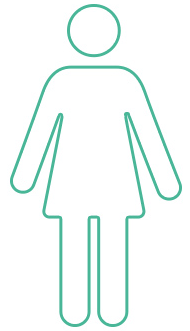
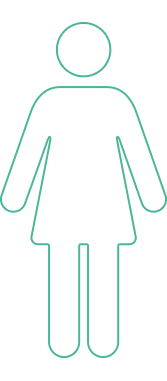
Amélioration front

Changed region(s): [[0.0, 0.0302, 1.0, 0.997], [0.4192, 0.0, 0.5689, 0.0302], [0.0299, 0.4532, 0.0599, 0.4834]]

diff --git a/front/index.html b/front/index.html
@@ -32,14 +32,14 @@
 <div class="container">
 
     <div class="row row-criteria" style="min-height: 50px ">
-        <div class="col-xs-offset-1 col-xs-5 col-md-offset-2 col-md-2 criteria-ville criteria" style="display: none">
+        <div class="col-xs-4 col-md-offset-3 col-md-2 criteria-ville criteria" style="display: none">
             <div class="illustration">
                 <object id="littleTahitiSVG" data="images/tahiti.svg" type="image/svg+xml"></object>
                 <br>
             </div>
             Si j'habite à <span id="headerVille"> </span>
         </div>
-        <div class="col-xs-5 col-md-2 criteria-sexe criteria" style="display: none">
+        <div class="col-xs-4 col-md-2 criteria-sexe criteria" style="display: none">
             <div class="illustration">
                 <object id="sexeImage" type="image/svg+xml"></object>
             </div>
@@ -49,7 +49,7 @@
 
     <div id="step0" class="row">
         <div class="title">
-            SI VOUS ETIEZ UN AUTRE HABITANT DE LA POLYNESIE
+            SI VOUS ÉTIEZ UN AUTRE HABITANT DE LA POLYNÉSIE...
         </div>
         <br/><br/>
         <div class="col-md-12" style="text-align: center">
@@ -63,21 +63,27 @@
     <object style="max-height: 500px" type="image/svg+xml" id="tahitiSVG" data="images/tahiti.svg">
     </object>
     <br/>
-    <span class="font-bold" style="font-size: 45px;color: #49B698;font-weight: bolder">OU HABITERIEZ VOUS ?</span>
+    <span class="font-bold" style="font-size: 45px;color: #49B698;font-weight: bolder">OÙ HABITERIEZ VOUS ?</span>
 </div>
 
 <div id="step2" style="display: none;">
-    <img id="imgHomme" src="images/Homme.png"/>
-    <img id="imgFemme" src="images/Femme.png"/><br>
-    <span class="font-bold" style="font-size: 45px;color: #49B698;font-weight: bolder">QUEL SERAIT VOTRE SEXE ?</span>
+    <div class="choice">
+        <div class="homme">
+        </div>
+        <div class="femme">
+        </div>
+    </div>
+    <div class="clear">
+        <span class="font-bold" style="font-size: 45px;color: #49B698;font-weight: bolder">QUEL SERAIT VOTRE SEXE ?</span>
+    </div>
 </div>
 
 <div id="step3" style="display: none">
     <span id="bigAge" class="age font-bold">25 ans</span><br>
     <input id="age" data-slider-id="ex1Slider" type="text" data-slider-min="0" data-slider-max="99"
            data-slider-step="1" data-slider-value="25" data-slider-tooltip="hide"><br>
-    <span class="font-bold" style="font-size: 45px;color: #49B698;font-weight: bolder">QUEL SERAIT VOTRE AGE ?</span><br>
-    <button type="button" id="btnStep3" class="btn btn-primary">VOIR LE PROFIL ></button>
+    <span class="font-bold" style="font-size: 45px;color: #49B698;font-weight: bolder">QUEL SERAIT VOTRE ÂGE ?</span><br>
+    <button type="button" id="btnStep3" class="btn btn-primary">VOIR LE PROFIL</button>
 </div>
 
 
@@ -95,7 +101,6 @@
     var ville;
     var sexe;
     var age = 25;
-    var profession;
 
 
     var villesTahiti = [
@@ -151,7 +156,7 @@
             if (pathElm) {
                 pathElm.setAttribute('fill', '#46B497');
             }
-        }, false );
+        }, false);
     }
 
     function goToStep3() {
@@ -213,14 +218,14 @@
         $('#age').slider();
 
         //STEP2
-        $("#imgHomme").click(function () {
+        $(".homme").click(function () {
             sexe = 'Homme';
             $("#headerSexe").text('un homme');
             $("#sexeImage").attr('data', 'images/homme.svg');
             goToStep3();
         });
 
-        $("#imgFemme").click(function () {
+        $(".femme").click(function () {
             sexe = 'Femme';
             $("#headerSexe").text('une femme');
             $("#sexeImage").attr('data', 'images/femme.svg');

diff --git a/front/dashboard.html b/front/dashboard.html
@@ -71,7 +71,7 @@ Le budget mensuel par UC pour le tabac"/>
             <div class="illustration">
                 <span data-bind="text: age" class="age font-bold"></span><br>
             </div>
-            que j&#39;ai <span data-bind="text: age"></span> ans
+            et que j&#39;ai <span data-bind="text: age"></span> ans
         </div>
     </div>
 
@@ -80,7 +80,7 @@ Le budget mensuel par UC pour le tabac"/>
             <div class="result-illustration">
                 <img data-bind="attr: {src: statusMaritalImage}">
             </div>
-            J&#39;ai <span data-bind="text: chanceDetreMarie" class="font-bold"> </span><span class="monnaie">%</span> de chance d&#39;être marié(e)
+            J&#39;ai <span data-bind="text: chanceDetreMarie" class="font-bold"> </span><span>%</span> de chance d&#39;être marié(e)
         </div>
 
         <div class="col-md-4 result-box result-occupation">
@@ -105,7 +105,7 @@ Le budget mensuel par UC pour le tabac"/>
             Le budget mensuel par UC pour l'alcool
         </div>
 
-        <div class="col-md-4 result-box result-alcool">
+        <div class="col-md-4 result-box result-tabac">
             <div class="result-illustration" data-bind="html: tabacPaquetHtml">
             </div>
             <div data-bind="html: depenseTabacEnFrancs" class="font-bold"></div>
@@ -120,8 +120,15 @@ Le budget mensuel par UC pour le tabac"/>
                href="https://www.facebook.com/sharer/sharer.php?u=http%3A%2F%2Fopendataday2017.ispf.pf%3A3000%2Fdashboard.html%3Fville%3DPapeete%26sexe%3DFemme%26age%3D70%26profession%3DOuvriers&amp;src=sdkpreparse">Partager</a>
         </div>
         <br>
-        <a href="/" class="btn btn-primary">RECOMMENCER ></a>
+        <a href="/" class="btn btn-primary">DÉCOUVREZ UNE AUTRE FACETTE DE TAHITI</a>
+
+        <p>Vous êtes une institution publique ou privée et vous souhaitez enrichir la base de données polynésienne ?</p>
+        <a href="/" class="btn btn-danger">Contacter l'ISPF</a>
     </div>
+
+</div>
+
+<div class="footer">
 
 </div>
 

diff --git a/front/css/formulaire.css b/front/css/formulaire.css
@@ -10,16 +10,11 @@ path {
     text-align: center;
     font-size: 40px;
     width: 70%;
-    margin: auto;
+    margin: 100px auto;
     color: #49B698;
+    font-weight: 200;
 }
 
-#btnStep0 {
-    background-color: #49B698;
-    width: auto;
-    font-size: 50px;
-    color: #FFFFFF;
-}
 
 #step1 {
     text-align: center;
@@ -27,6 +22,39 @@ path {
 
 #step2 {
     text-align: center;
+}
+
+#step2 .choice {
+    margin: 40px auto;
+    width: 374px;
+}
+
+#step2 .homme {
+    background-image: url(../images/Homme.png);
+    width: 167px;
+    height: 381px;
+    float: left;
+    margin-right: 40px;
+    margin-bottom: 25px;
+}
+
+#step2 .homme:hover {
+    background-image: url(../images/HommePlein.png);
+}
+
+#step2 .femme {
+    background-image: url(../images/Femme.png);
+    width: 167px;
+    height: 381px;
+    float: left;
+}
+
+#step2 .femme:hover {
+    background-image: url(../images/FemmePlein.png);
+}
+
+#step2 span {
+    margin-top: 20px;
 }
 
 #step3 {
@@ -39,7 +67,7 @@ path {
 }
 
 #ex1Slider {
-    width: 500px;
+    width: 50%;
     margin: 50px;
 }
 

diff --git a/front/css/general.css b/front/css/general.css
@@ -1,5 +1,5 @@
-@import url('https://fonts.googleapis.com/css?family=Nunito');
-@import url('https://fonts.googleapis.com/css?family=Oswald');
+@import url('https://fonts.googleapis.com/css?family=Nunito:200,400');
+@import url('https://fonts.googleapis.com/css?family=Oswald:400,500,700');
 
 .font-bold {
     font-family: 'Oswald', sans-serif;
@@ -17,6 +17,7 @@ h1 {
     text-align: center;
     margin: 0;
     padding: 5px;
+    font-family: 'Oswald', sans-serif;
 }
 
 h2 {
@@ -27,6 +28,10 @@ h2 {
     margin-top: 10px;
     margin-bottom: 20px;
     padding: 5px;
+}
+
+.clear {
+    clear: both;
 }
 
 .row-criteria {
@@ -67,11 +72,14 @@ h2 {
 }
 
 .btn-primary {
-    background-color: #49B698;
-    border-style: none;
     border-radius: 28px;
-    padding: 4px 30px;
-    font-size: 48px;
+    border-style: none;
+    padding: 4px 30px 6px;
+    background-color: #49B698;
+    width: auto;
+    font-size: 36px;
+    color: #FFFFFF;
+    font-family: 'Oswald', sans-serif;
 }
 
 .btn-primary:hover {

diff --git a/front/css/dashboard.css b/front/css/dashboard.css
@@ -1,9 +1,10 @@
 .result-box {
     color: #C63226;
-    font-size: 18px;
+    font-size: 15px;
     text-align: center;
     margin-top: 20px;
     height: 320px;
+    text-transform: uppercase;
 }
 
 .result-illustration {
@@ -16,12 +17,23 @@
 }
 
 .result-marie span {
-    font-size: 36px;
+    font-size: 53px;
     font-weight: bold;
 }
+
+.result-marie span + span {
+    font-size: 31px;
+}
+
 .result-occupation span {
-    font-size: 24px;
+    font-size: 38px;
     font-weight: bold;
+}
+
+.result-alcool, .result-tabac {
+    font-size: 14px;
+    text-align: left;
+    line-height: 15px;
 }
 
 .result-alcool .result-illustration img {
@@ -29,9 +41,15 @@
     padding-bottom: 12px;
 }
 
-.result-alcool .font-bold {
-    font-size: 30px;
+.result-alcool .font-bold, .result-tabac .font-bold {
+    font-size: 53px;
     float: left;
+    line-height: 53px;
+}
+
+.result-tabac img {
+    width: 50px;
+    margin-bottom: 10px;
 }
 
 .monnaie {
